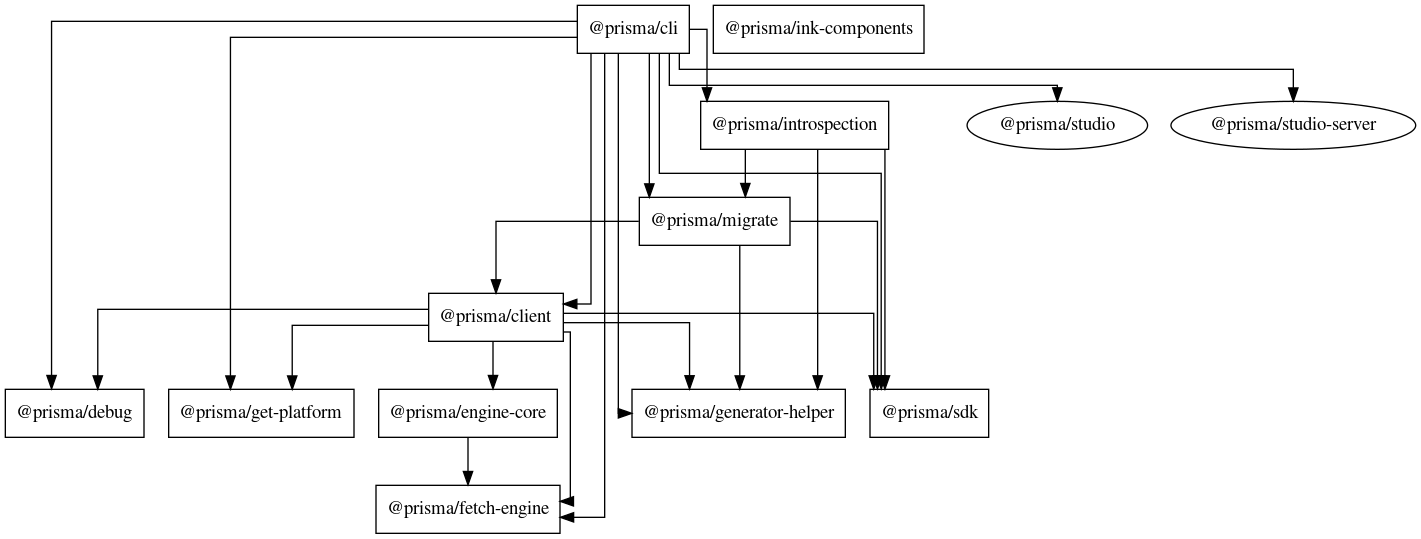
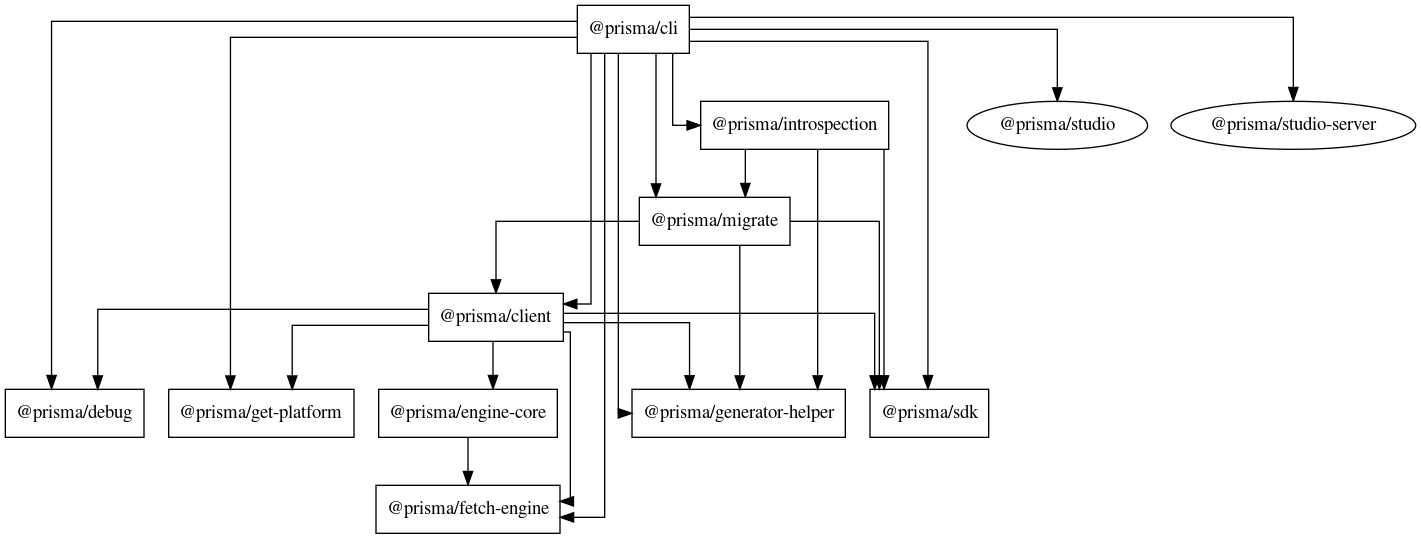
feat: force introspection panic env (#3859)

Changed region(s): [[0.4335, 0.0, 0.898, 0.3562], [0.5883, 0.564, 0.6193, 0.6827], [0.6502, 0.6827, 0.6812, 0.7124]]

diff --git a/src/packages/sdk/src/IntrospectionEngine.ts b/src/packages/sdk/src/IntrospectionEngine.ts
@@ -209,6 +209,9 @@ export class IntrospectionEngine {
     this.lastUrl = schema
     return this.runCommand(this.getRPCPayload('introspect', { schema, force }))
   }
+  public debugPanic(): Promise<any> {
+    return this.runCommand(this.getRPCPayload('debugPanic', undefined))
+  }
   public listDatabases(schema: string): Promise<string[]> {
     this.lastUrl = schema
     return this.runCommand(this.getRPCPayload('listDatabases', { schema }))
@@ -372,6 +375,10 @@ export class IntrospectionEngine {
   }
   private async runCommand(request: RPCPayload): Promise<any> {
     await this.init()
+    if (process.env.FORCE_PANIC_INTROSPECTION_ENGINE) {
+      request = this.getRPCPayload('debugPanic', undefined)
+    }
+  
     if (this.child?.killed) {
       throw new Error(
         `Can't execute ${JSON.stringify(
@@ -495,11 +502,7 @@ Please put that file into a gist and post it in Slack.
       id: messageId++,
       jsonrpc: '2.0',
       method,
-      params: [
-        {
-          ...params,
-        },
-      ],
+      params: params ? [{...params}] : undefined,
     }
   }
 }

diff --git a/src/scripts/graph-dependencies.ts b/src/scripts/graph-dependencies.ts
@@ -31,12 +31,16 @@ function generateGraph(
   const g = digraph('G')
   g.set('splines', 'ortho')
   packages?.forEach((pkg) => {
-    const json = require(pkg.jsonPath)
-    g.addNode(json.name, { shape: 'box' })
-    const keys = getKeys(json, type)
-    const depNodes = keys.map((key) => {
-      g.addEdge(json.name, key, {})
-    })
+    try{
+      const json = require(pkg.jsonPath)
+      g.addNode(json.name, { shape: 'box' })
+      const keys = getKeys(json, type)
+      const depNodes = keys.map((key) => {
+        g.addEdge(json.name, key, {})
+      })
+    } catch {
+      
+    }
   })
   g.output('png', `./graphs/${type}.png`, (err, stdout, stderr) => {
     console.log(stderr)

diff --git a/src/packages/introspection/src/__tests__/handlePanic.test.ts b/src/packages/introspection/src/__tests__/handlePanic.test.ts
@@ -1,0 +1,18 @@
+import path from 'path'
+import { Introspect } from '../commands/Introspect'
+// import CaptureStdout from './__helpers__/captureStdout'
+
+describe('panic', () => {
+  test('should panic', async () => {
+    process.env.FORCE_PANIC_INTROSPECTION_ENGINE = '1'
+    process.chdir(path.join(__dirname, 'fixture'))
+    const introspect = new Introspect()
+    try {
+      await introspect.parse(['--print'])
+    } catch (e) {
+      expect(e).toMatchInlineSnapshot(
+        `[Error: [introspection-engine/core/src/rpc.rs:156:9] This is the debugPanic artificial panic]`,
+      )
+    }
+  })
+})

diff --git a/CONTRIBUTING.md b/CONTRIBUTING.md
@@ -139,18 +139,19 @@ ts-node fixtures/generate.ts ./fixtures/blog/ --local-runtime
 
 Changes to `query.ts` will then be reflected when running `fixtures/blog/main.ts`
 
+## ENV Variables for debugging
+
+| ENV                                | Info                                     |
+| ---------------------------------- | ---------------------------------------- |
+| FORCE_PANIC_MIGRATION_ENGINE=1     | Forces the Migration Engine to Panic     |
+| FORCE_PANIC_INTROSPECTION_ENGINE=1 | Forces the Introspection Engine to Panic |
+
 ## Migrate
 
 ### Developing Prisma Migrate
 
 1. `cd src/packages/migrate/fixtures/blog`
 1. `ts-node ../../src/bin.ts up`
-
-To force the Migration Engine Panic you can set the following env var
-
-```
-FORCE_PANIC_MIGRATION_ENGINE=1
-```
 
 ### Developing `prisma init` Command
 
